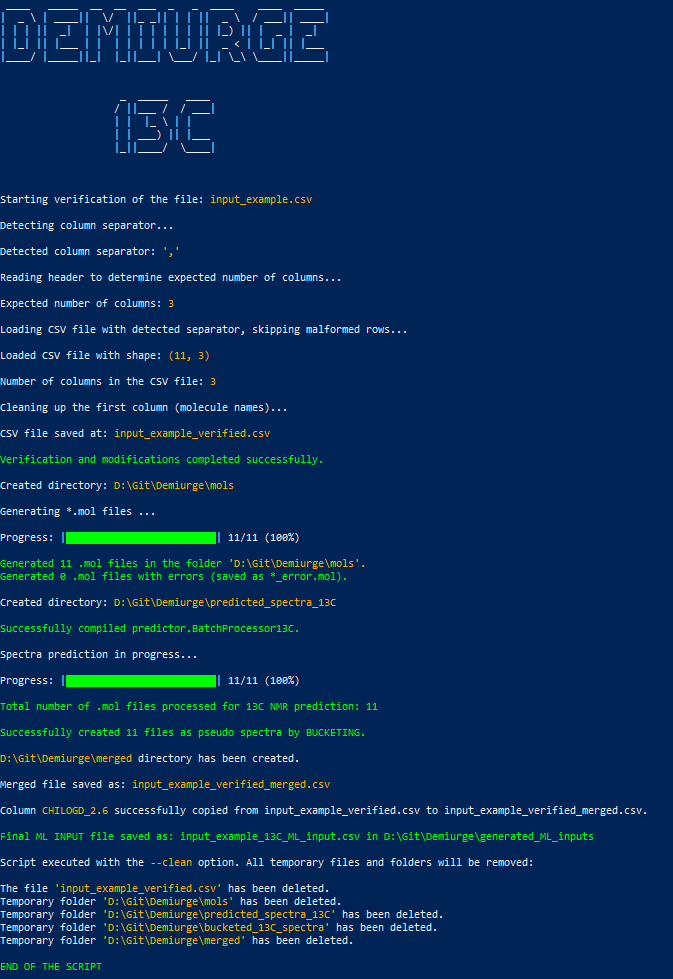
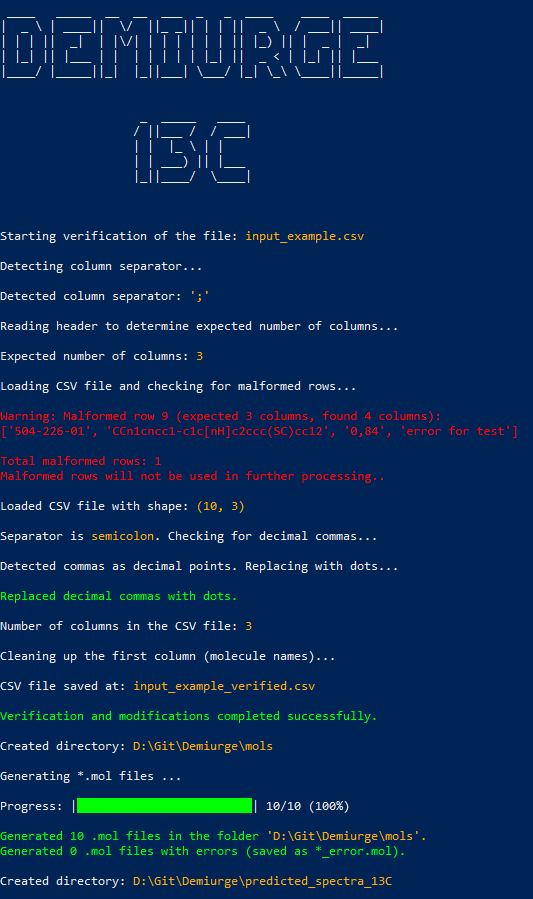
up

diff --git a/demiurge_bin/csv_checker.py b/demiurge_bin/csv_checker.py
@@ -1,22 +1,13 @@
-# csv_checker.py
-
 import pandas as pd
 import csv
-
 
 def verify_csv(file_path):
     """
     Function to verify and modify a CSV file by handling separators, decimal
     points, and column structure. Additionally, it cleans up the first column
     (e.g., molecule names) by removing problematic characters.
-
-    Parameters:
-    - file_path: The path to the input CSV file to be verified.
-
-    Returns:
-    - verified_file_path: Path to the newly saved CSV file with '_verified'
-                          suffix,
-                          or None if there was an error in processing the file.
+    
+    If any rows are malformed (i.e., column count mismatch), they are reported.
     """
     
     # ANSI color
@@ -33,8 +24,7 @@ def verify_csv(file_path):
             sample = file.read(2048)
 
         delimiter_candidates = [',', ';', '\t']
-        delimiter_counts = {delim: sample.count(delim) for delim in
-                            delimiter_candidates}
+        delimiter_counts = {delim: sample.count(delim) for delim in delimiter_candidates}
         separator = max(delimiter_counts, key=delimiter_counts.get)
         print(f"\nDetected column separator: {COLORS[2]}'{separator}'{RESET}")
 
@@ -45,8 +35,26 @@ def verify_csv(file_path):
             expected_columns = len(headers)
             print(f"\nExpected number of columns: {COLORS[2]}{expected_columns}{RESET}")
 
-        print("\nLoading CSV file with detected separator, "
-              "skipping malformed rows...")
+        print("\nLoading CSV file and checking for malformed rows...")
+        
+        # Track malformed rows
+        malformed_rows = []
+
+        # Read the file line by line and check for column mismatch
+        with open(file_path, 'r') as file:
+            reader = csv.reader(file, delimiter=separator)
+            for i, row in enumerate(reader):
+                if len(row) != expected_columns:
+                    malformed_rows.append(i + 1)  # Track row numbers (starting from 1)
+                    print(f"\n{COLORS[1]}Warning: Malformed row {i + 1} (expected {expected_columns} columns, found {len(row)} columns): \n{row}{RESET}")
+        
+        if malformed_rows:
+            print(f"\n{COLORS[1]}Total malformed rows: {len(malformed_rows)}{RESET}\n"
+                  f"{COLORS[1]}Malformed rows will not be used in further processing..{RESET}")
+        else:
+            print(f"\n{COLORS[0]}No malformed rows detected.{RESET}")
+
+        # Load the data, skipping malformed rows
         df = pd.read_csv(file_path, delimiter=separator, on_bad_lines='skip')
         print(f"\nLoaded CSV file with shape: {COLORS[2]}{df.shape}{RESET}")
 
@@ -56,7 +64,7 @@ def verify_csv(file_path):
 
     try:
         if separator == ';':
-            print("\nSeparator is {COLORS[2]}semicolon{RESET}. Checking for decimal commas...")
+            print(f"\nSeparator is {COLORS[2]}semicolon{RESET}. Checking for decimal commas...")
 
             def is_comma_decimal(cell):
                 try:
@@ -68,13 +76,11 @@ def verify_csv(file_path):
                     return False
 
             if df.applymap(is_comma_decimal).any().any():
-                print("\nDetected commas as decimal points. Replacing "
-                      "with dots...")
+                print("\nDetected commas as decimal points. Replacing with dots...")
                 df = df.applymap(
-                    lambda x: x.replace(',', '.') if isinstance(x, str) and
-                    is_comma_decimal(x) else x
+                    lambda x: x.replace(',', '.') if isinstance(x, str) and is_comma_decimal(x) else x
                 )
-                print("\n{COLORS[0]}Replaced decimal commas with dots.{RESET}")
+                print(f"\n{COLORS[0]}Replaced decimal commas with dots.{RESET}")
             else:
                 print("\nNo decimal commas detected.")
 
@@ -96,8 +102,7 @@ def verify_csv(file_path):
         def clean_molecule_name(name):
             if isinstance(name, str):
                 name = name.strip().replace(" ", "").replace("\t", "")
-                for char in ['*', '&', '^', '%', '$', '@', '!', '~', '#', '(',
-                             ')', '[', ']', '{', '}', '?', '/', '\\']:
+                for char in ['*', '&', '^', '%', '$', '@', '!', '~', '#', '(', ')', '[', ']', '{', '}', '?', '/', '\\']:
                     name = name.replace(char, "_")
                 return name
             return name
